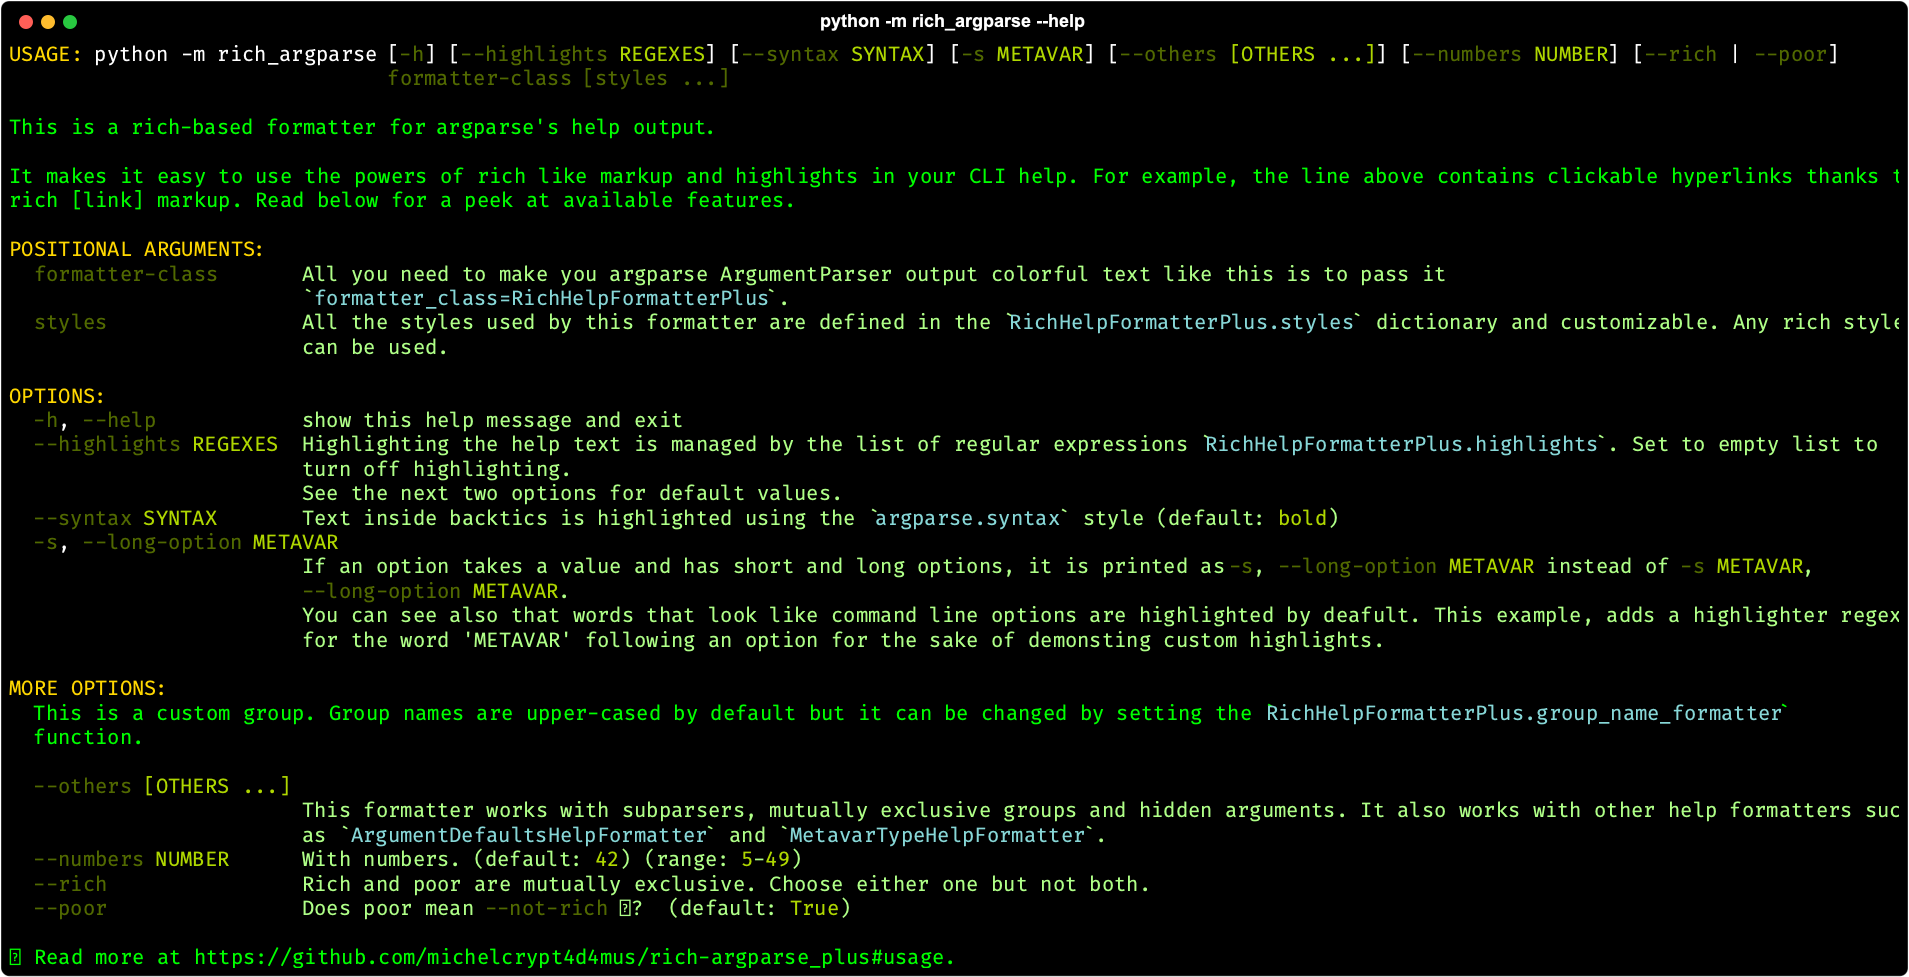
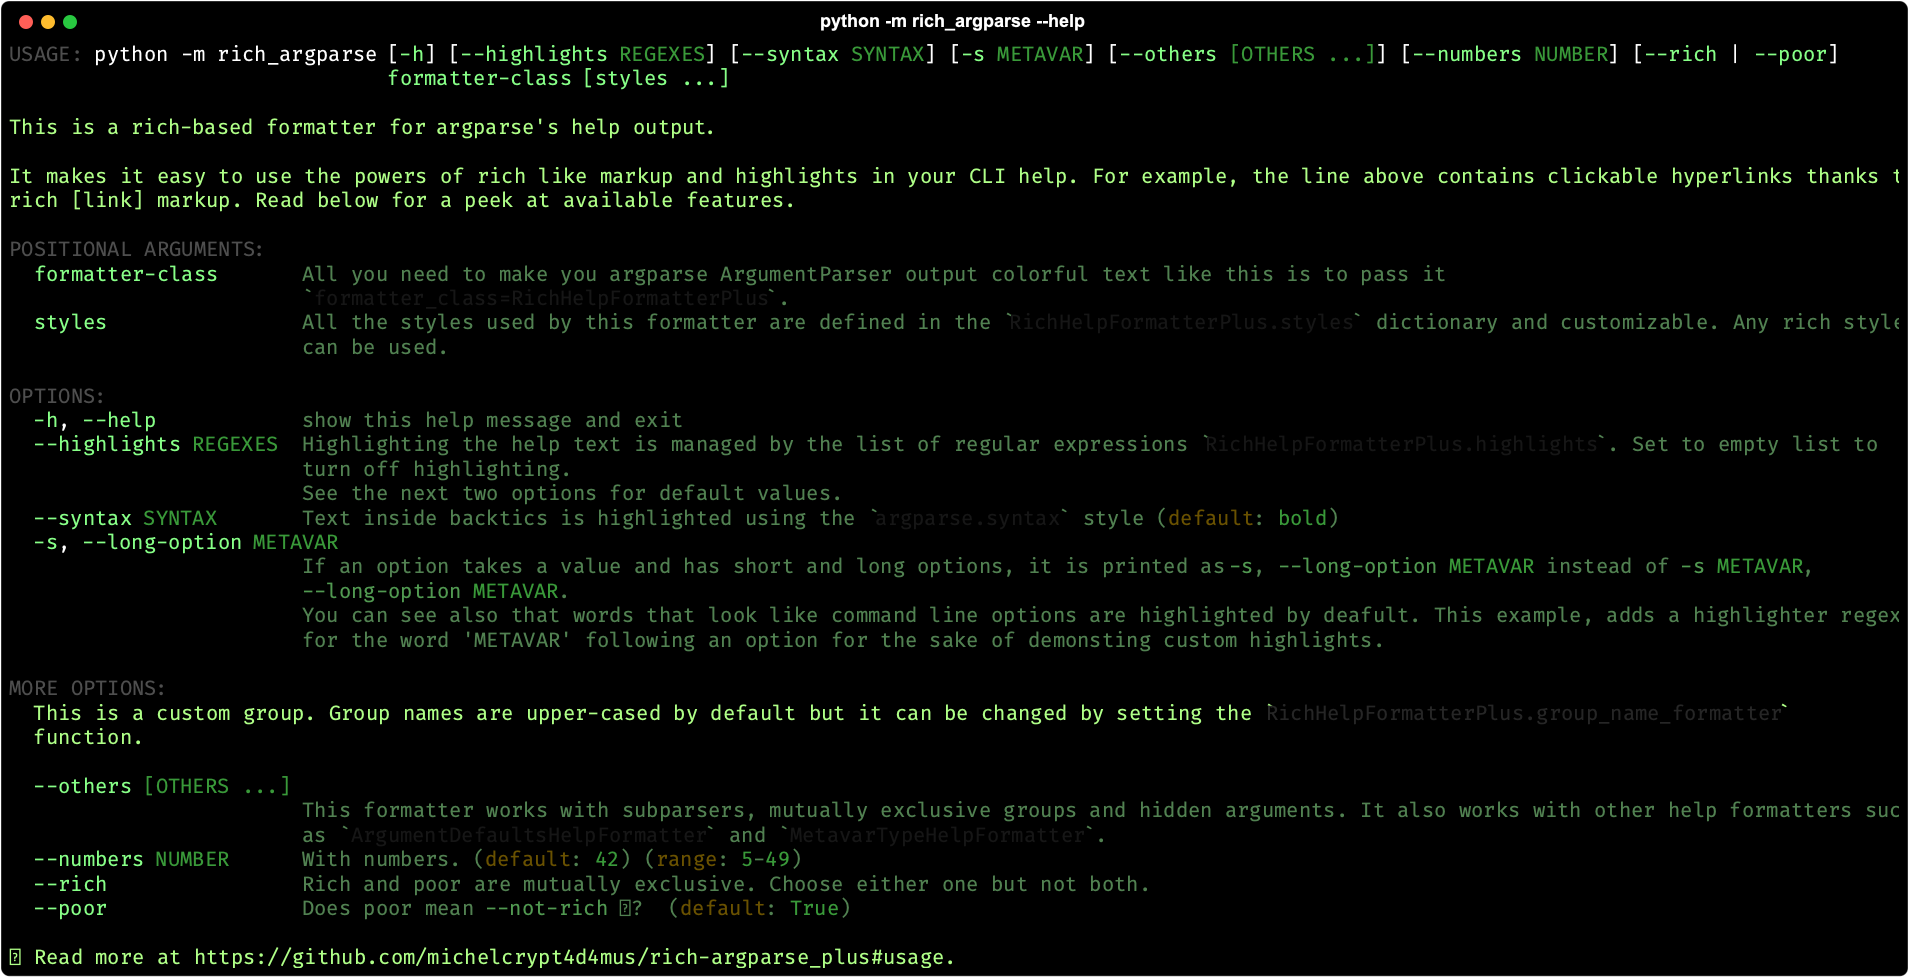
themes

diff --git a/rich_argparse_plus/themes.py b/rich_argparse_plus/themes.py
@@ -173,12 +173,14 @@ ARGPARSE_COLOR_THEMES: dict[str, dict[str, StyleType]] = {
     },
 
     'cold_world': {
-        ARGPARSE_ARGS: 'color(19) bold',
+        ARGPARSE_ARGS: 'color(31)',
         ARGPARSE_DEFAULT: 'color(19)',
-        ARGPARSE_GROUPS: 'color(40) bold dim',
-        ARGPARSE_HELP: 'color(23) bold dim',
+        ARGPARSE_DESCRIPTION: 'color(31) dim',
+        ARGPARSE_GROUPS: 'color(19)',
+        ARGPARSE_HELP: 'color(23) dim',
         ARGPARSE_METAVAR: 'color(85) bold',
-        ARGPARSE_SYNTAX: 'color(78) bold underline',
+        ARGPARSE_PROG: 'color(123) bold',
+        ARGPARSE_SYNTAX: 'color(78) italic',
         ARGPARSE_TEXT: 'color(6)',
     },
 

diff --git a/README.md b/README.md
@@ -52,6 +52,9 @@ You can view images of all the themes [here in the repo](https://github.com/mich
 
 Here's a couple of them:
 
+##### **mother_earch**
+![morning_glory](https://github.com/michelcrypt4d4mus/rich-argparse/blob/rich_argparse_plus/doc/themes/python_-m_rich_argparse_help_mother_earch_theme.png)
+
 ##### **the_pink**
 ![the_pink](https://github.com/michelcrypt4d4mus/rich-argparse/blob/rich_argparse_plus/doc/themes/python_-m_rich_argparse_help_the_pink_theme.png)
 
